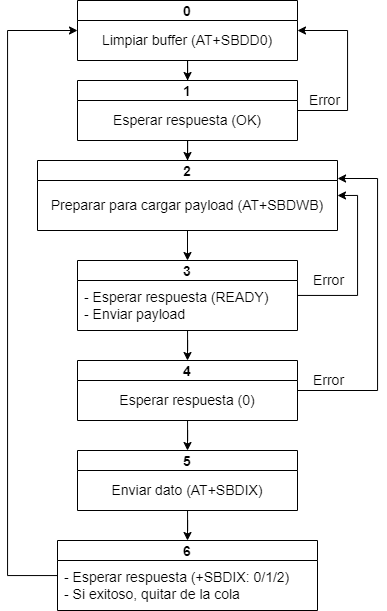
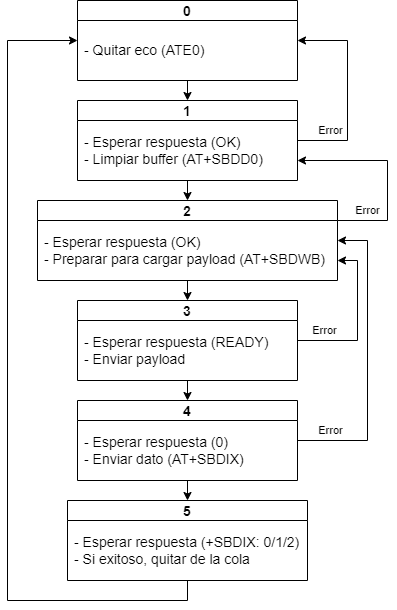
Agregada documentacion

Changed region(s): [[0.0, 0.0, 0.9922, 1.0], [0.8062, 0.6852, 0.8682, 0.7164], [0.4651, 0.0, 0.4961, 0.0311]]

diff --git a/Readme.md b/Readme.md
@@ -1,0 +1,69 @@
+# Estación de monitoreo de calidad de agua
+
+La estación de monitoreo de calidad está basada en un datalogger Campbell CR800 y cuenta con distintos sensores para medir variables en un curso de agua. Estas variables son medidas, almacenadas y subidas a la nube mediante un modem satelital.
+
+## Componentes:
+
+- Datalogger CR800
+- Modem satelital RockBlock Plus
+- Sensor de turbidez OBS501
+- Sensor de oxígeno disuelto CS511-L
+- Sensor de conductividad CS547A
+- Sensor de pH CSIM11
+
+## Conexión de sensores y modem
+
+Las conexiones pueden encontrarse detalladas en [este documento](docs/Datalogger/Conexion_Sensores.xlsx) o en el siguiente grafico
+![Conexiones](docs/Diagramas/Diagrama_de_conexiones.drawio.png)
+
+## Funcionamiento
+
+El funcionamiento del programa esta explicado en [este documento](docs/Funcionamiento.md).
+
+## Datos enviados
+
+Los datos que se envían mediante el modem satelital se detallan en [este documento](docs/Trama.xlsx)
+
+---
+
+# Changelog
+
+## v1.1.1
+
+Instalación programada para el 29/12/2021
+
+### Características:
+
+- En caso de que un dato no pueda ser enviado, este se encola y se envía en el siguiente periodo de transmisión.
+- Report ID cambiado a 0x03:
+  - Agregada timestamp (según UNIX Epoch) de la transmisión.
+  - El valor de turbidez se envía en FBU (sin multiplicación o división).
+
+### BugFixs:
+
+- Ahora la estación si envía los datos mediante el modem satelital.
+
+## v1.1
+
+Instalada el 15/12/2021
+
+> **Esta versión no debe ser usada debido a sus errores conocidos.**
+
+### Características:
+
+- Código reestructurado para mayor claridad.
+- La tensión de batería se almacena cada 8 horas.
+
+### Bugs conocidos:
+
+- No sube datos al modem debido a un error en la comunicación con este.
+
+## v1.0
+
+Instalada el 13/10/2021
+
+# Autores
+
+Creado por Agustín Allegui para ProMatix SRL.
+
+Basado en el programa creado por Emir Dagfal.

diff --git a/docs/Funcionamiento.md b/docs/Funcionamiento.md
@@ -1,0 +1,28 @@
+# Funcionamiento del programa
+
+Después de inicializar variables, el programa consiste de un bucle en el que las distintas tareas se realizan si se cumplen las condiciones para la misma.
+
+![Programa principal](Diagramas/Diagrama_de_flujo.drawio.png)
+
+### Tareas:
+
+- **Lectura de sensores**: (Cada 2 horas) Se leen todos los datos de los sensores y se almacenan en una tabla.
+- **Encolar un dato**: (Cada 8 horas) Se agrega un dato a la cola de envío. Este dato consiste en las últimas 4 lecturas de sensores.
+
+- **Enviar datos**: (Cuando hay datos encolados) Se ejecuta un estado de la FSM para envío.
+
+> Nota: La alarma antivandálica no ha sido probada en forma exhaustiva y no debe usarse hasta que se lleven a cabo las pruebas correspondientes.
+
+## FSM para envío
+
+Cada vez que se llama a ejecutar la FSM para envió, se ejecutan las tareas correspondientes al estado actual de la FSM. Al finalizar la ejecución, el estado se modifica según el resultado de la operación.
+
+Llamar consecutivamente a la FSM resultara en el envío de los datos a través del modem.
+
+![SendFSM](Diagramas/SendFSM.png)
+
+La presencia de datos en la cola para enviar se expresa en la variable _PendingMessages_ (_age_ en el diagrama). Si esta variable es mayor que 0, indica cuan antiguos son los datos que deben enviarse.
+
+Por ejemplo, en el siguiente diagrama, si _age_=2, se enviaran los datos marcados en amarillo. Si el envío es exitoso, se resta 1 a _age_ y el siguiente envió consistirá en los datos marcados en verde.
+
+![age](Diagramas/Data_age.drawio.png)
